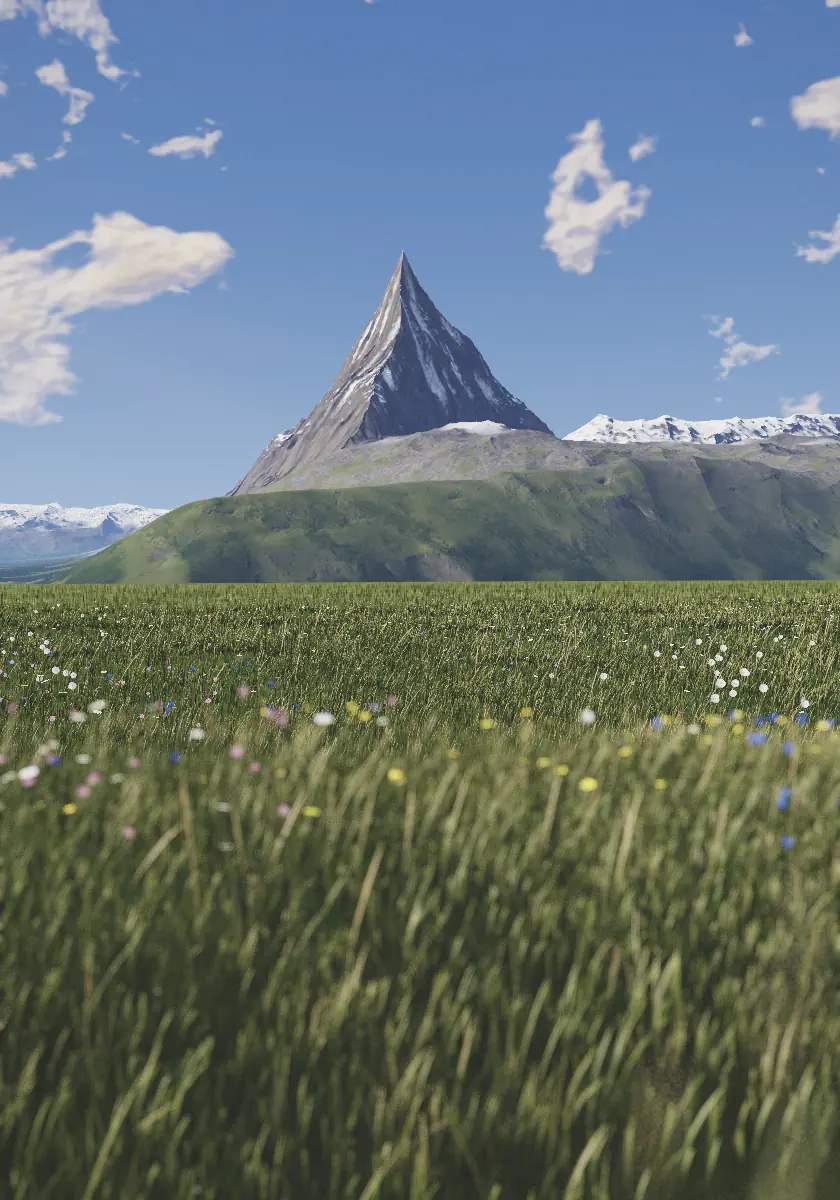
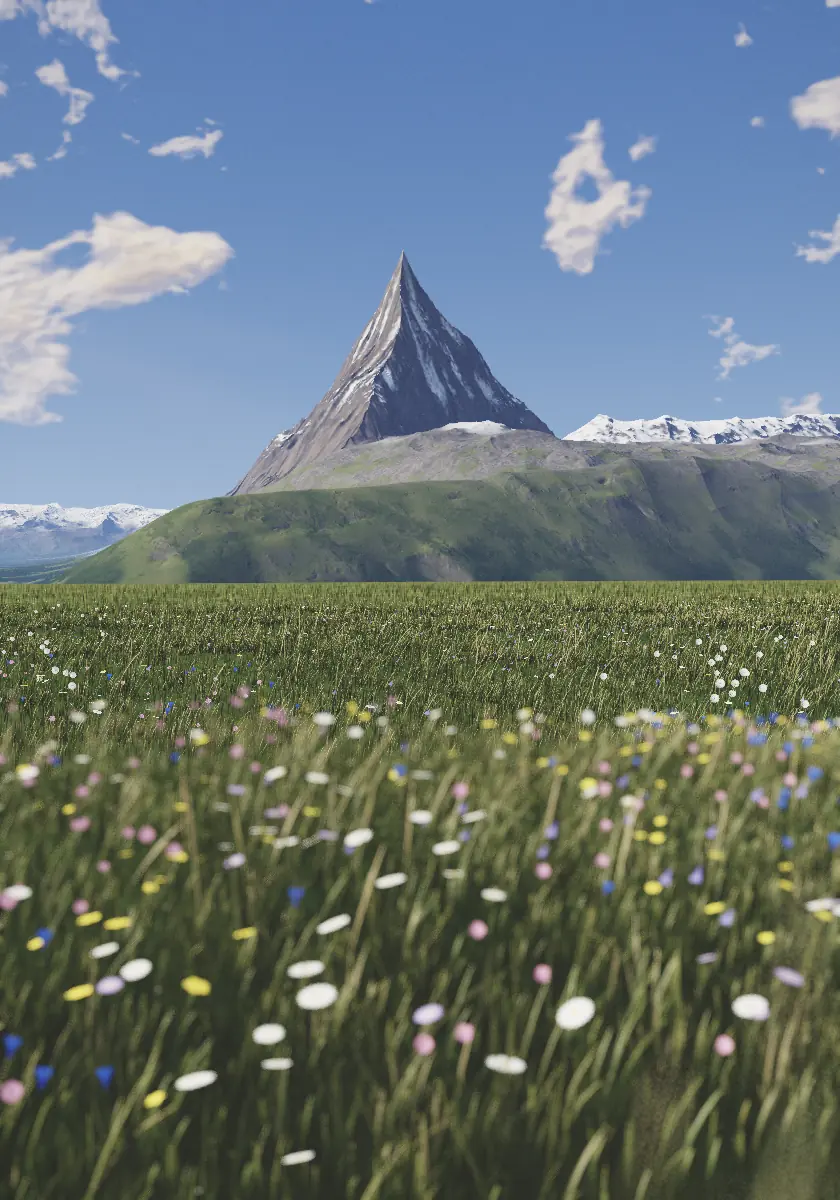
on a tall frame the meadow at arm's length is flowered too, in drifts that thin with distance, over a lighter sward

diff --git a/style.css b/style.css
@@ -31,11 +31,11 @@
         rgba(0, 0, 0, 0.028) calc(100% - var(--fade) * 0.1),
         transparent);
[9 lines of base64/hex data omitted]
     --glimpse: var(--glimpse-day-wide);
     --poster: url(/stills/day-wide.webp);
     transition-property: --paper, --ink, --quiet, --underline, --accent, --wash, --sky;

diff --git a/sky.js b/sky.js
@@ -2008,7 +2008,7 @@ function buildMeadow(w, h) {
      there too: short blades scattered over the meadow it looks down
      on, fewer with distance as the tussocks close, and none past ten
      metres */
-  var ns = Math.round(LIFT * 10 * 10 * TANG * 1200);
+  var ns = Math.round(LIFT * 10 * 10 * TANG * 700);
   for (i = 0; i < ns; i++) {
     z = 10 * Math.sqrt(rnd());
     if (z < NEAR_Z || rnd() > Math.min(1, 3 / z) * Math.min(1, (10 - z) / 4)) continue;
@@ -2019,6 +2019,30 @@ function buildMeadow(w, h) {
     if (!inView(p[0], p[1])) continue;
     sw[2] = clip(p[0], p[1], h);
     Array.prototype.push.apply(blades[band(z)], sw);
+  }
+  /* and the flowers of that ground: the drifts above begin about where
+     a lying eye's wash of near blades ends, but a tall frame's lower
+     half is this meadow at arm's length, seen from above, so it is
+     flowered too, in small drifts of one kind that thin with distance:
+     the frame holds only a couple of metres of ground across its lower
+     third, and each of them should carry its flowers */
+  var nk = Math.round(LIFT * 4.5 * 4.5 * TANG * 9);
+  for (i = 0; i < nk; i++) {
+    z = 1.1 * Math.pow(4.5 / 1.1, rnd());
+    var ku = rnd() * 2 - 1, kk = pick(), kn = 2 + Math.floor(rnd() * 4);
+    for (j = 0; j < kn; j++) {
+      var zk = Math.max(1.1, z + (rnd() - 0.5) * 0.5);
+      p = place(zk, Math.max(-1, Math.min(1, ku + (rnd() - 0.5) * 0.5 / (zk * TANG + 0.3))));
+      var kf = kk === 7 && zk < 3.5 ? 0 : kk;
+      var ks = KS[kf] * (0.8 + 0.45 * rnd());
+      h = 0.1 + 0.26 * rnd();
+      var ss = [p[0], p[1], h, 0.002, rnd() * Math.PI * 2, 0.05 + 0.15 * rnd(), rnd(), rnd(), 2, 0.5 + 0.6 * rnd(), 0.3, rnd() - 0.5];
+      var ff = [kf, ks, rnd() * Math.PI * 2, 0.2 + 0.25 * rnd()];
+      if (!inView(p[0], p[1])) continue;
+      ss[2] = clip(p[0], p[1], h);
+      Array.prototype.push.apply(blades[band(zk)], ss);
+      Array.prototype.push.apply(heads[band(zk)], ss.concat(ff));
+    }
   }
   return { blades: blades, heads: heads, parts: parts };
 }
